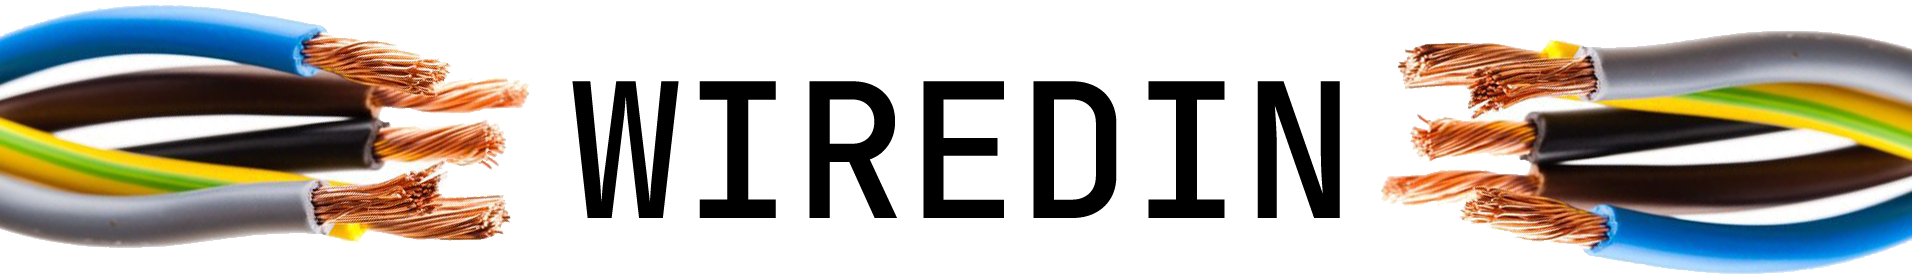
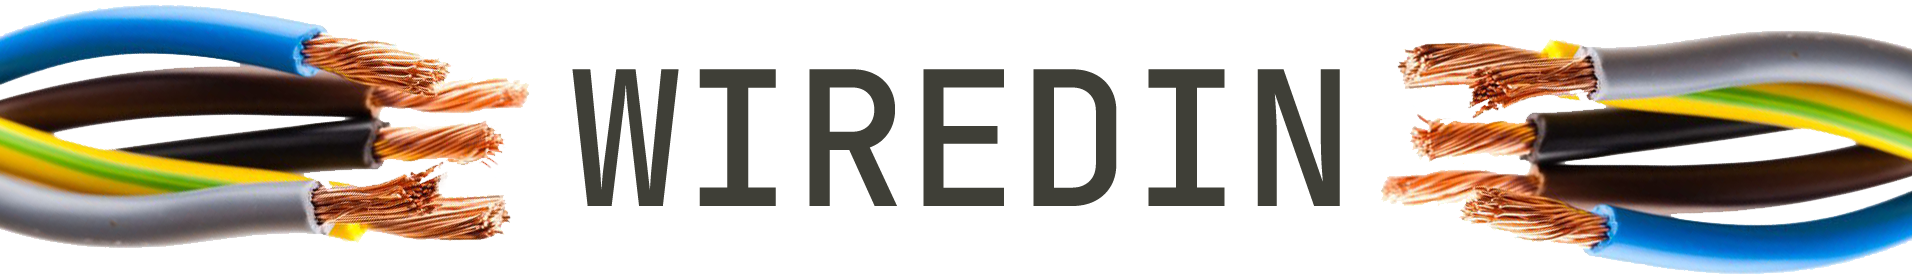
eqee

diff --git a/style.css b/style.css
@@ -6,13 +6,17 @@
 }
 
 @import url('https://fonts.googleapis.com/css2?family=JetBrains+Mono&display=swap');
+body {
+    background-color: #D6D6B1;
+}
 main {
     font-family: 'JetBrains Mono', monospace;
+    
     
 }
 nav {
     display: flex;
-    background-color: blanchedalmond;
+    background-color: #3F3F37;
     justify-content: center;
     align-items: center;
     height: 60px;
@@ -21,15 +25,15 @@ nav a {
     font-size: 110%;
     border-radius: 10px;
     padding: 10px;
-    background-color: blue;
+    background-color: #724E2C;
 }
 
 nav a:hover {
-    background-color: burlywood;
+    background-color: #be7937;
 }
 
 header img{
-    display: ;
+    width: 100%;
 }
 .signin{
     background-color: rgb(0, 128, 0);
